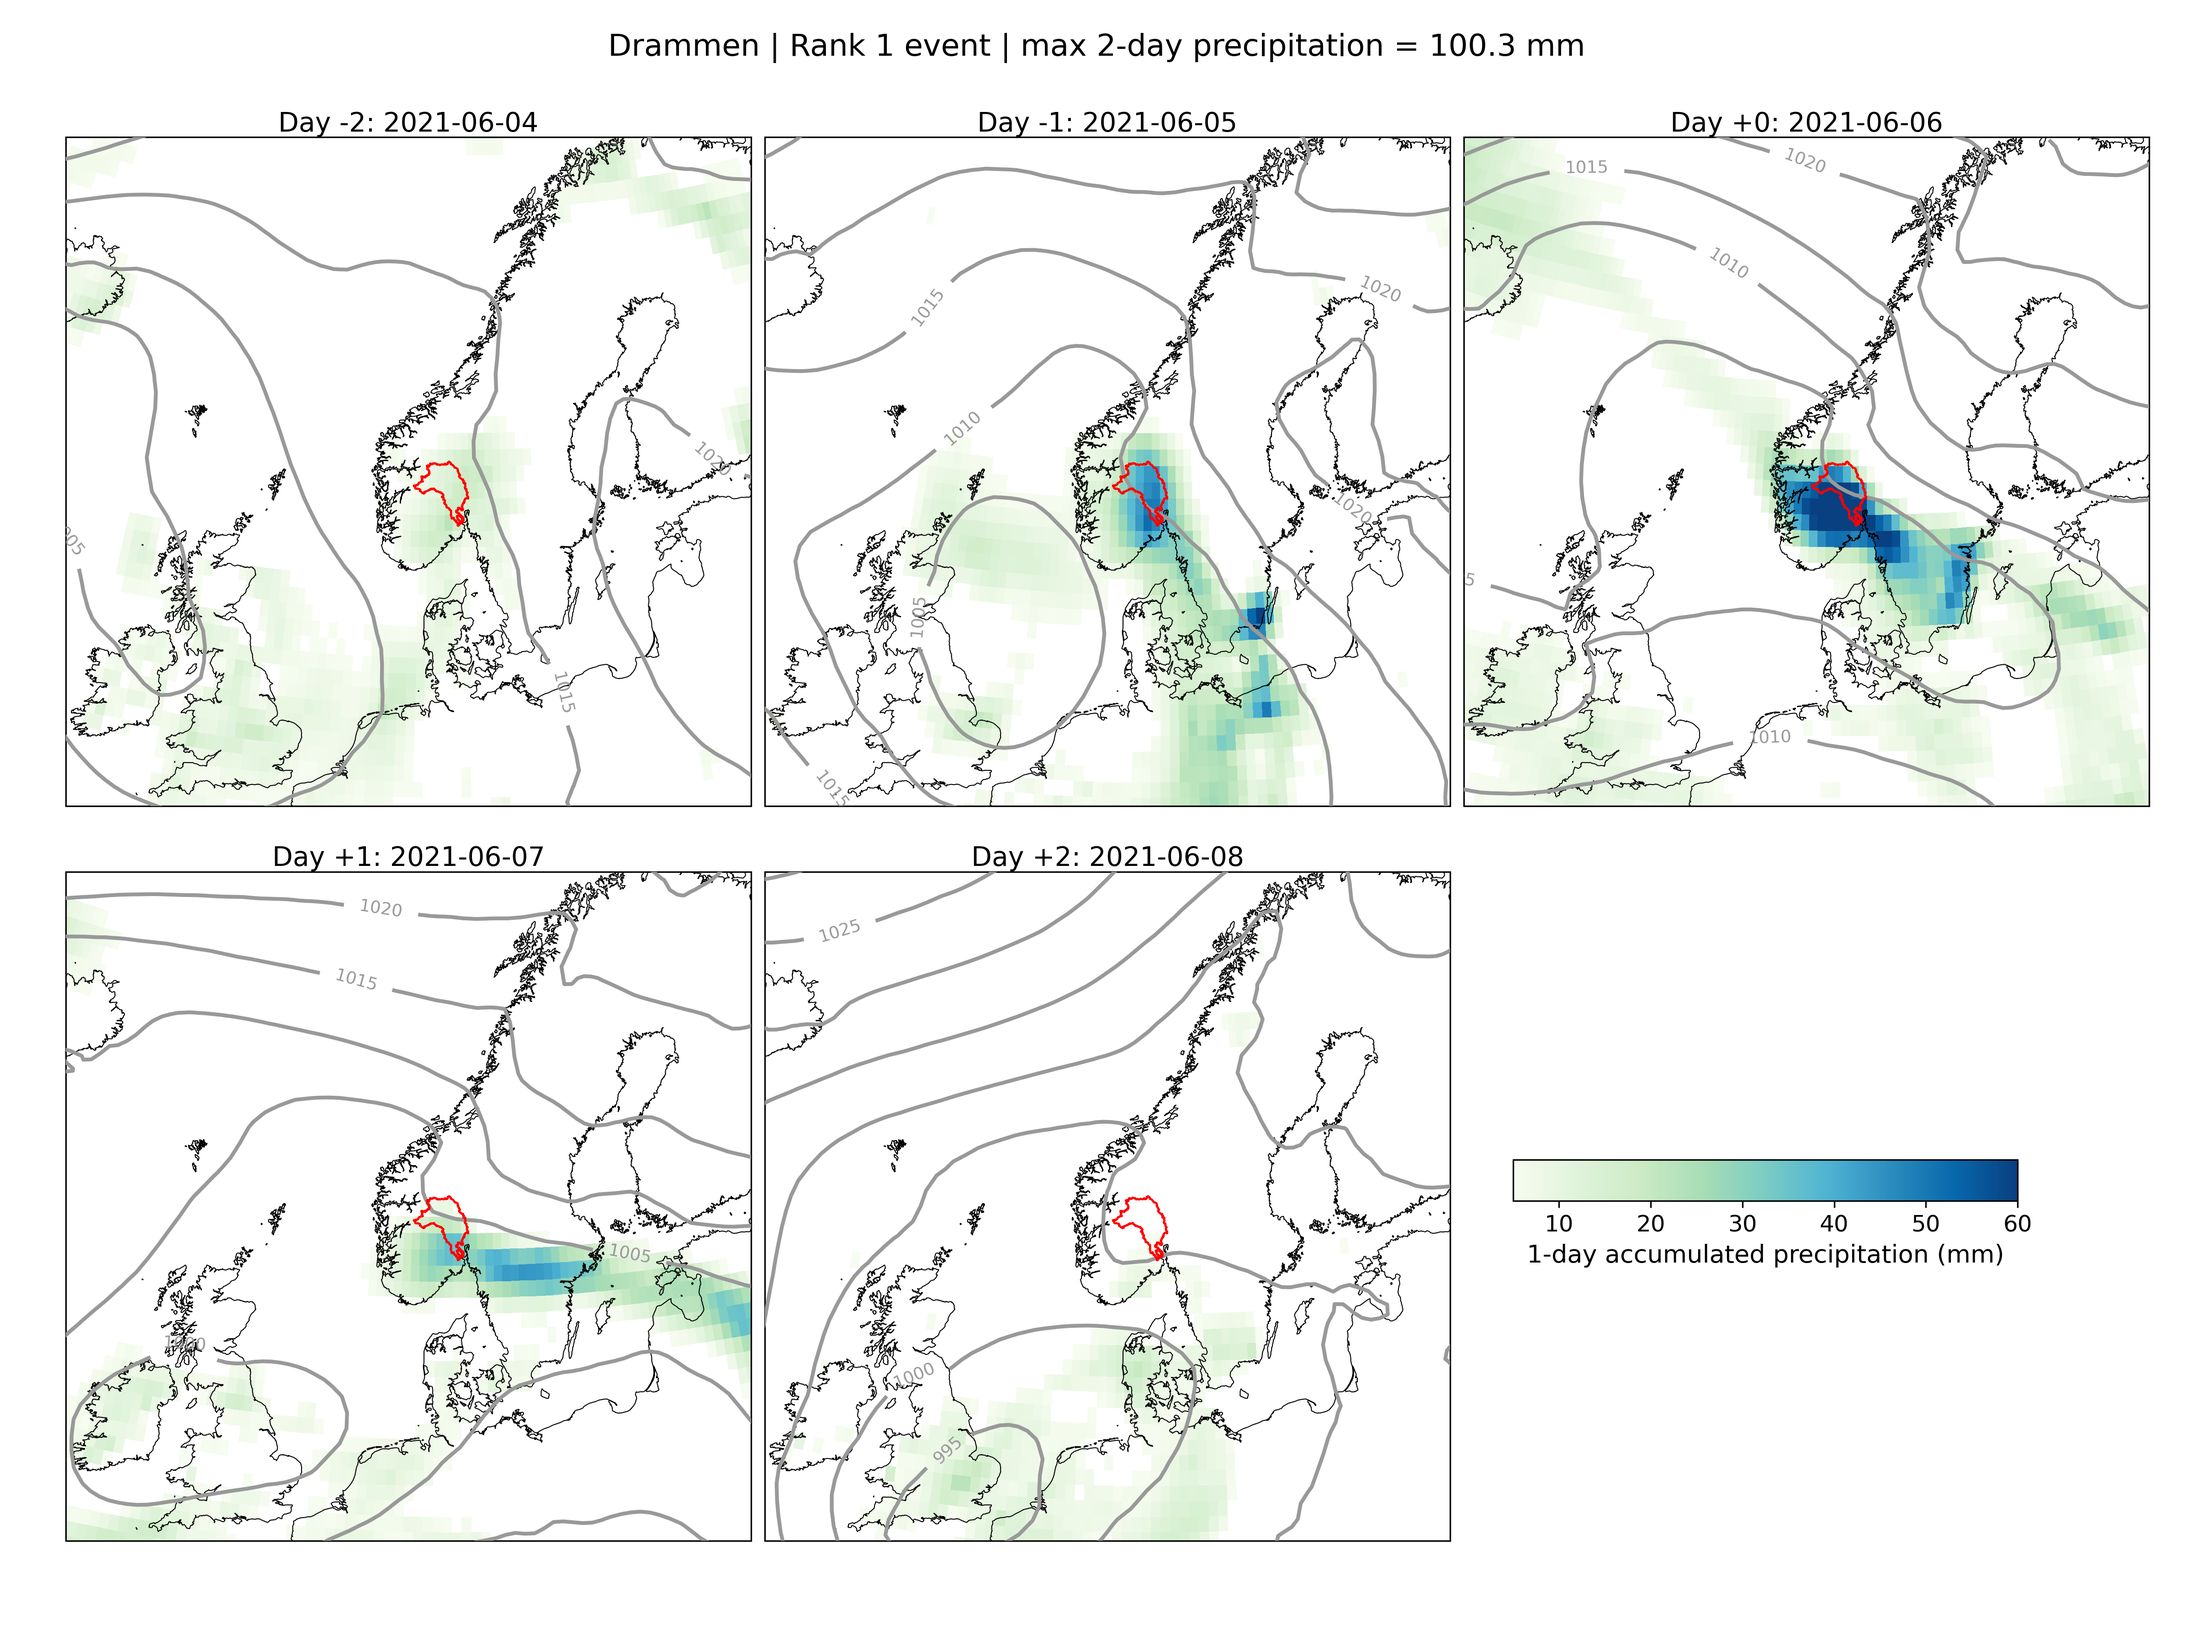
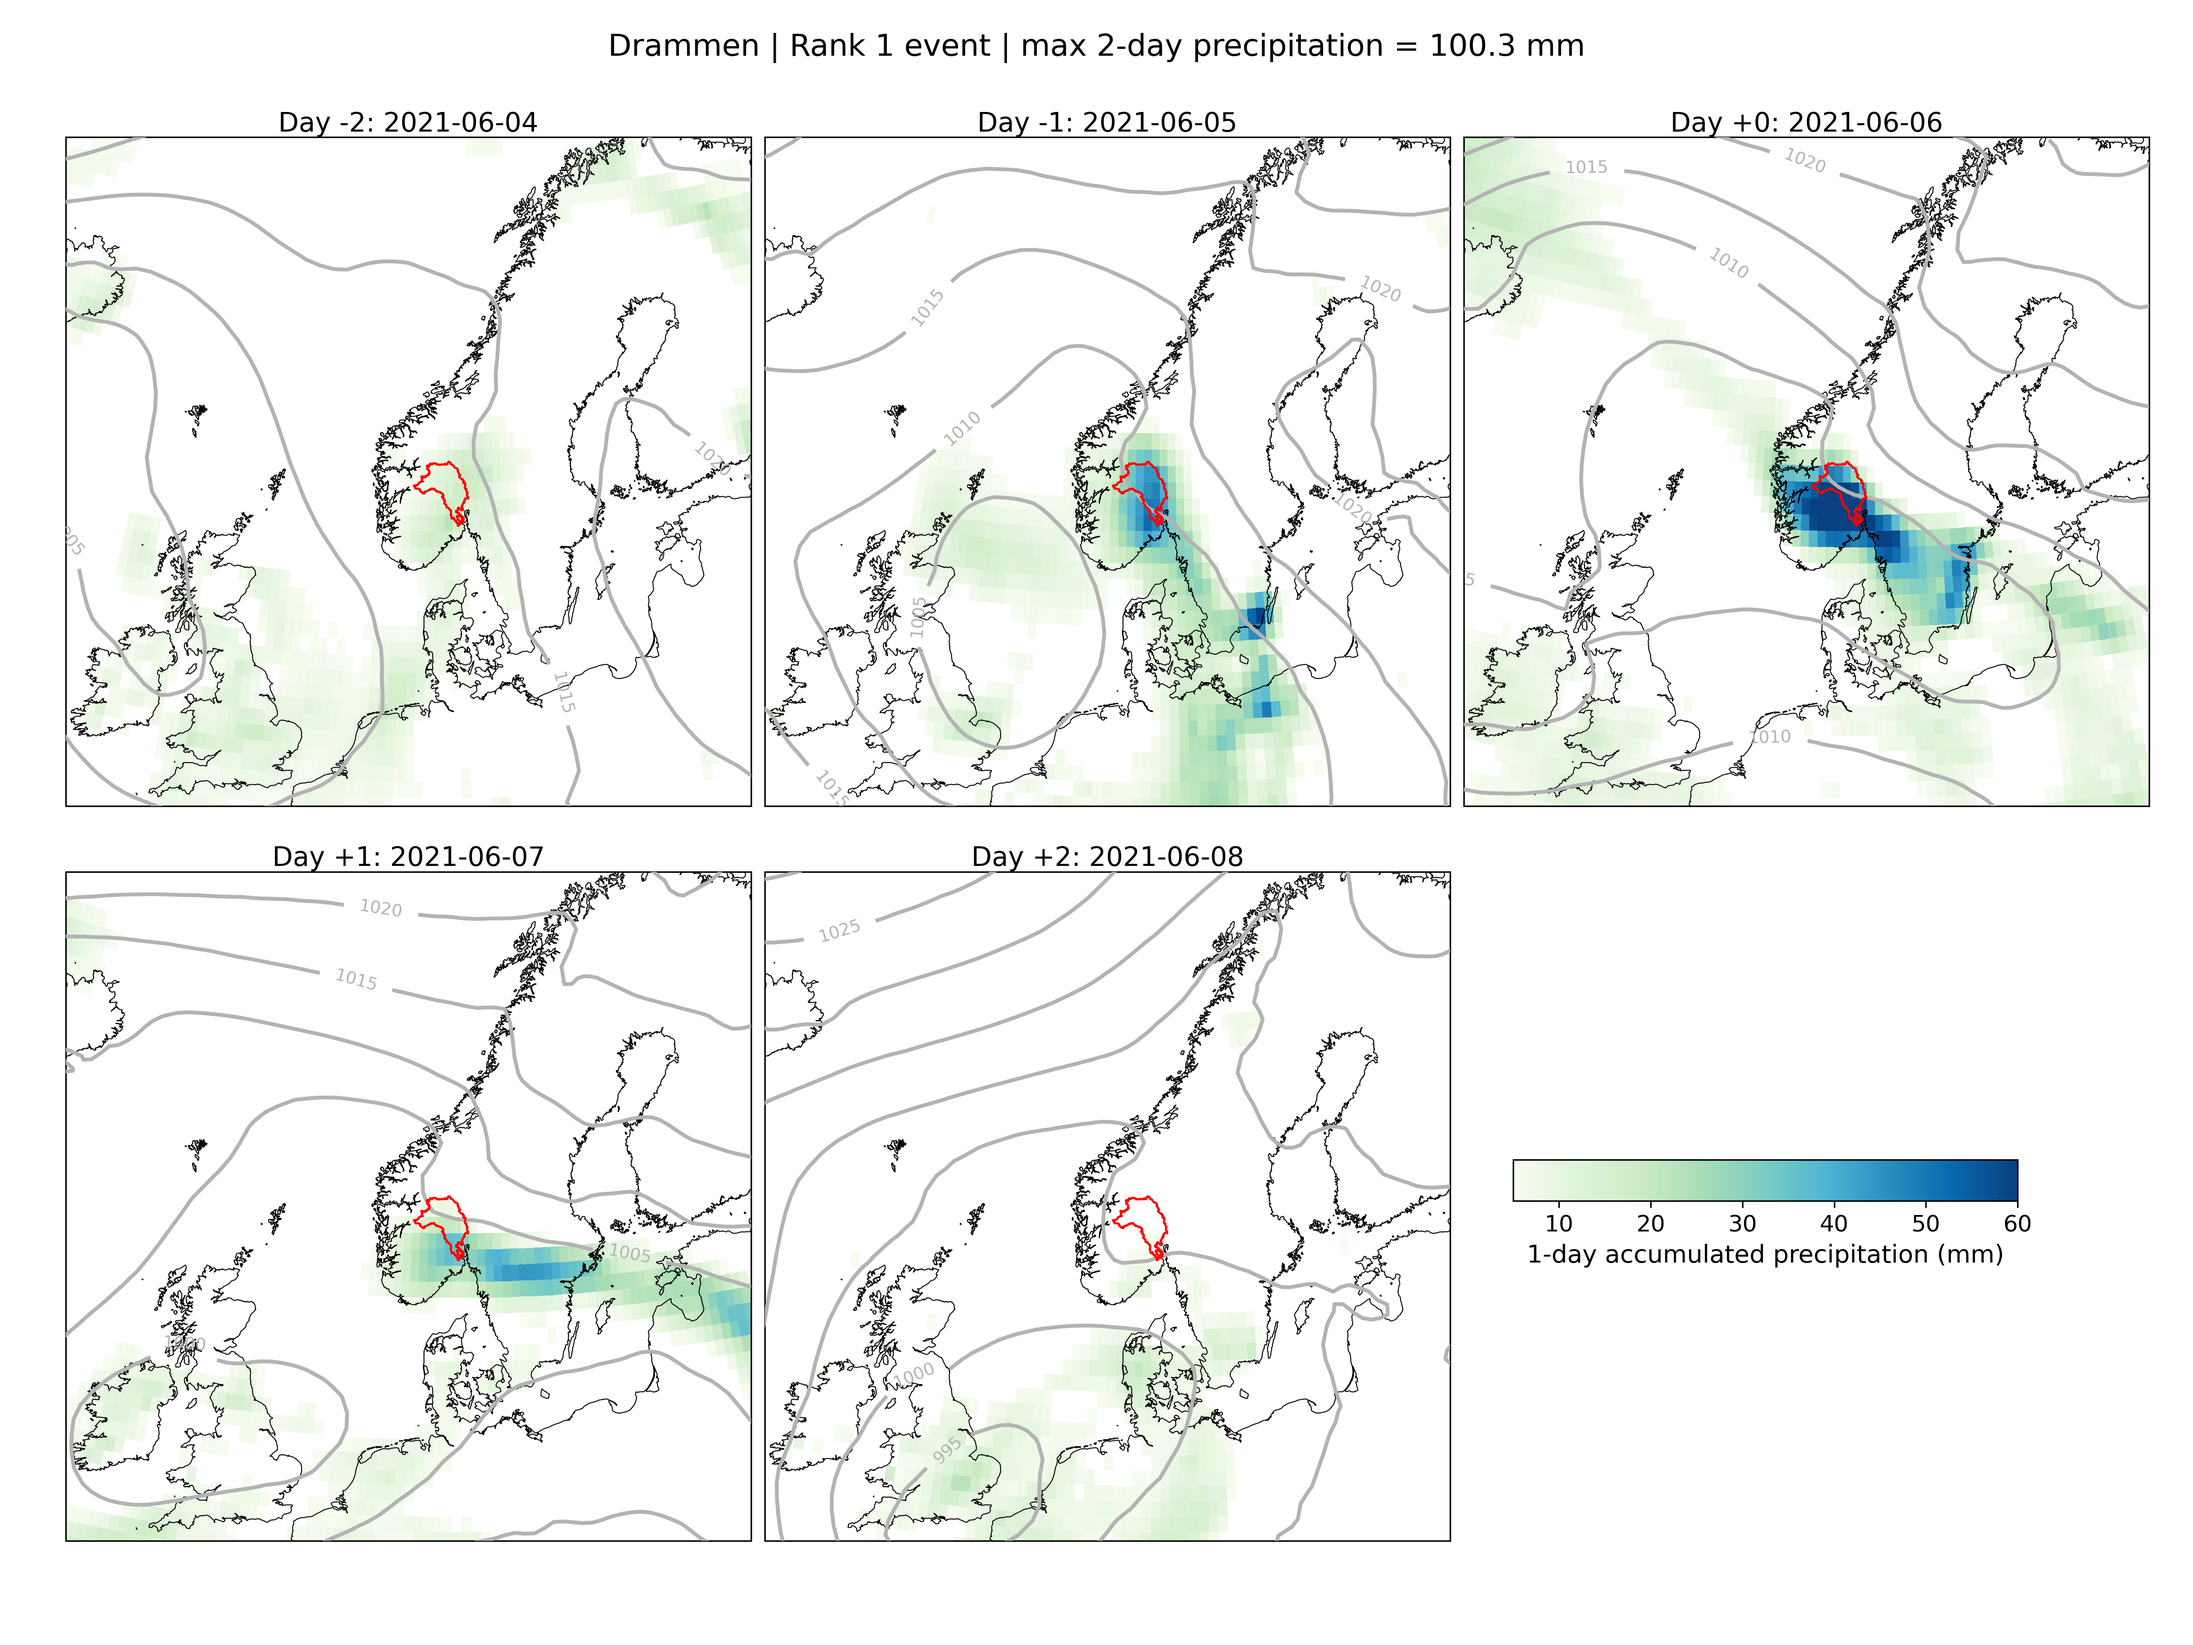
update

Changed region(s): [[0.875, 0.1244, 0.9062, 0.1556], [0.8438, 0.2178, 0.875, 0.2489], [0.5938, 0.7778, 0.625, 0.8089]]

diff --git a/code/plot/paper_figs/plot-xy-evolution-may-top5-event-tp-msl.py b/code/plot/paper_figs/plot-xy-evolution-may-top5-event-tp-msl.py
@@ -86,7 +86,7 @@ PRECIP_ZERO_THRESHOLD = 5.0 #1e-12
 
 # Mean sea level pressure contours in hPa
 MSL_CONTOUR_LEVELS = np.arange(960, 1045, 5)
-MSL_CONTOUR_COLOR = "0.6"
+MSL_CONTOUR_COLOR = "0.7"
 MSL_CONTOUR_LINEWIDTH = 2
 
 CATCHMENT_CRS_IF_MISSING = "EPSG:4326"
